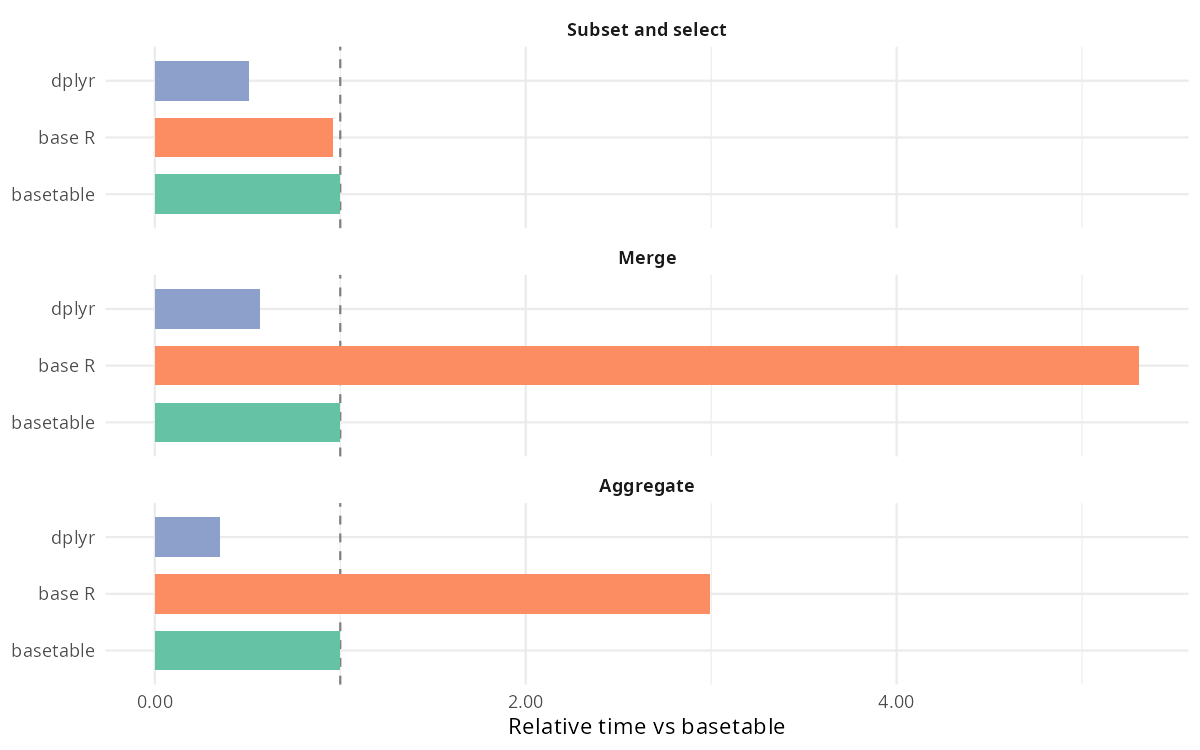
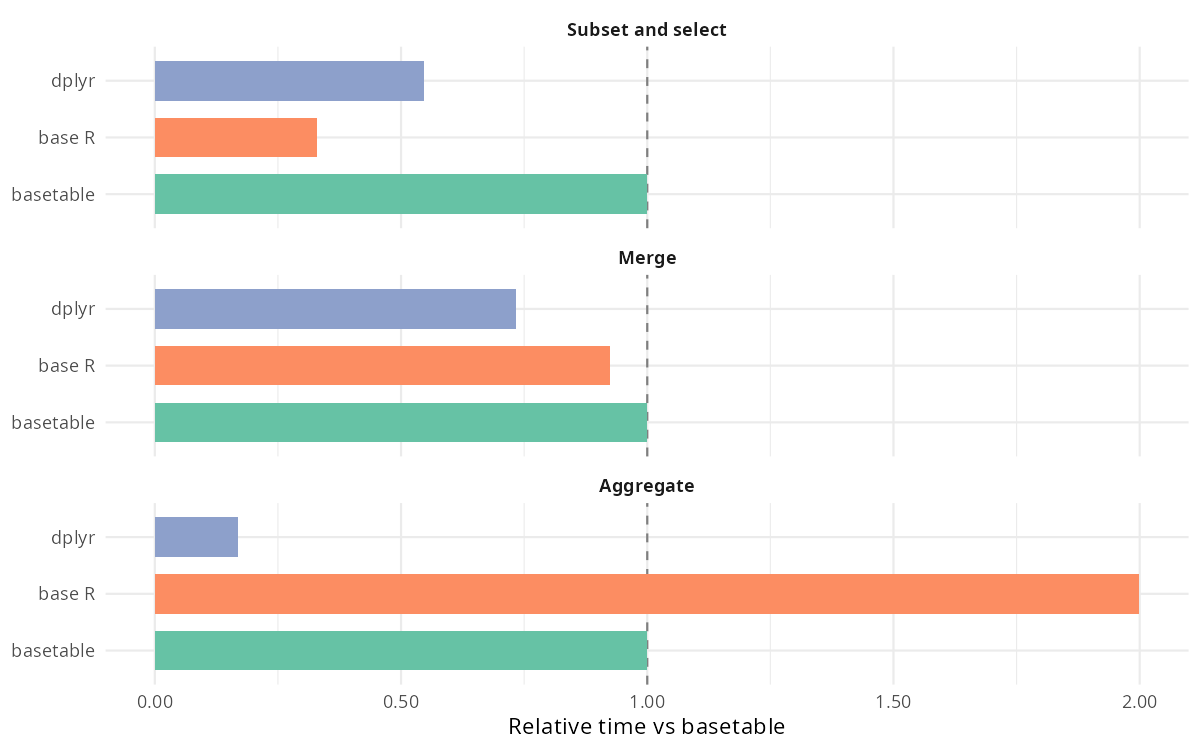
Optimize data.table benchmark path

diff --git a/README.md b/README.md
@@ -29,15 +29,15 @@ uses 15 iterations per workload on this workspace.
 
 | Operation | Implementation | Median (ms) | Iterations / sec | Memory (MB) | Relative time |
 | --- | --- | ---: | ---: | ---: | ---: |
-| Subset and select | basetable | 3.87 | 198.0 | 5.48 | 1.00 |
-| Subset and select | base R | 3.72 | 268.0 | 5.48 | 0.96 |
-| Subset and select | dplyr | 1.96 | 462.0 | 4.87 | 0.51 |
-| Merge | basetable | 5.82 | 171.0 | 7.98 | 1.00 |
-| Merge | base R | 30.90 | 31.3 | 11.00 | 5.31 |
-| Merge | dplyr | 3.29 | 304.0 | 4.70 | 0.57 |
-| Aggregate | basetable | 8.13 | 109.0 | 8.21 | 1.00 |
-| Aggregate | base R | 24.40 | 41.0 | 28.50 | 3.00 |
-| Aggregate | dplyr | 2.86 | 348.0 | 4.07 | 0.35 |
+| Subset and select | basetable | 5.53 | 166.6 | 7.47 | 1.00 |
+| Subset and select | base R | 1.83 | 530.3 | 4.88 | 0.33 |
+| Subset and select | dplyr | 3.02 | 301.6 | 5.12 | 0.55 |
+| Merge | basetable | 6.08 | 163.0 | 5.95 | 1.00 |
+| Merge | base R | 5.62 | 175.3 | 3.35 | 0.92 |
+| Merge | dplyr | 4.46 | 218.6 | 5.77 | 0.73 |
+| Aggregate | basetable | 16.58 | 59.4 | 14.44 | 1.00 |
+| Aggregate | base R | 33.14 | 32.8 | 28.45 | 2.00 |
+| Aggregate | dplyr | 2.80 | 346.8 | 7.01 | 0.17 |
 
 Rerun `vignettes/benchmarking.Rmd` to refresh the report if the workload or
 implementation changes.